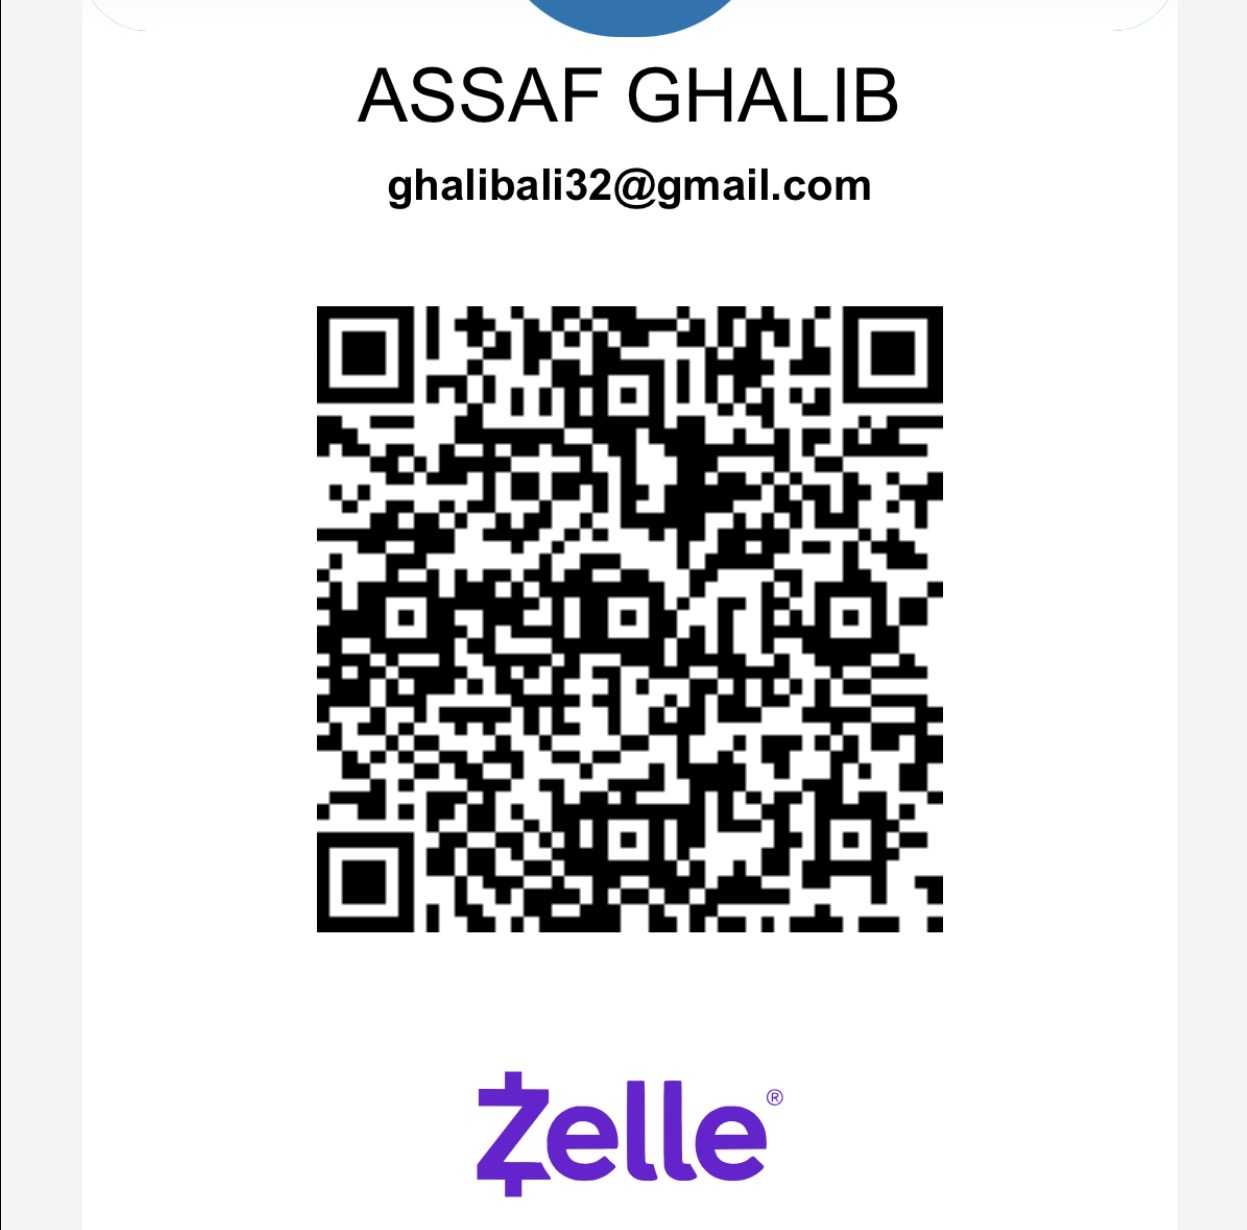
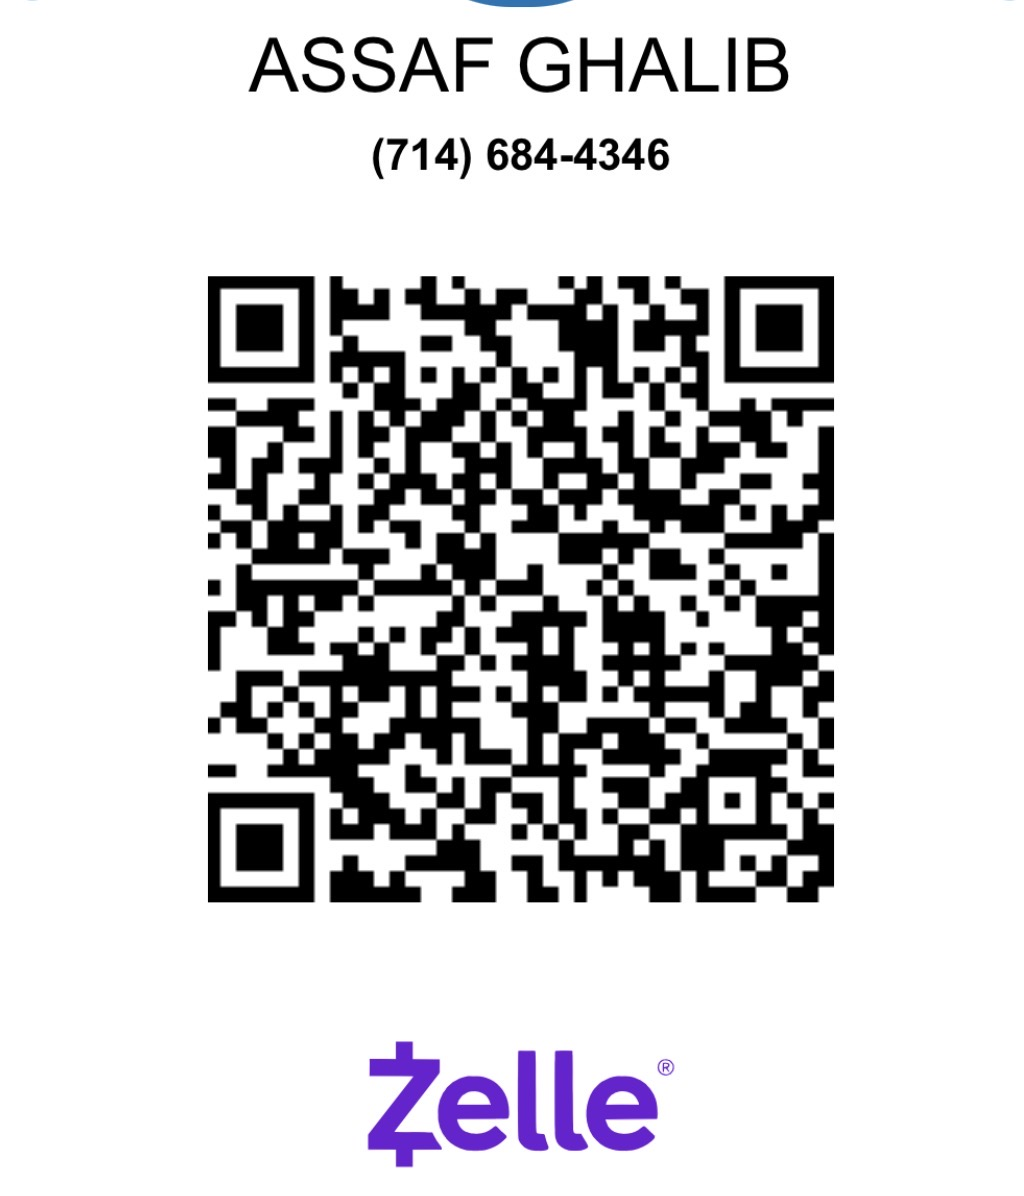
Changes

Changed region(s): [[0.1875, 0.2166, 0.8125, 0.7734], [0.25, 0.0, 0.7812, 0.1856], [0.3438, 0.8662, 0.6562, 0.99]]

diff --git a/src/pages/InstantBanks.tsx b/src/pages/InstantBanks.tsx
@@ -28,7 +28,7 @@ const banksByCountry: Record<string, { name: string; flag: string; banks: BankAc
     banks: [
       { name: "CashApp", nameArabic: "كاش آب", tag: "$Galalive313", accountHolder: "Dobeee Soneee", qrImage: "/banks/cashapp-galalive313.jpeg" },
       { name: "CashApp", nameArabic: "كاش آب (حساب 2)", tag: "$cashalk1", accountHolder: "Gala live chat", qrImage: "/banks/cashapp-cashalk1.jpeg" },
-      { name: "Zelle", nameArabic: "زيل", email: "ghalibali32@gmail.com", accountHolder: "ASSAF GHALIB", qrImage: "/banks/zelle-assaf.jpeg" },
+      { name: "Zelle", nameArabic: "زيل", phoneNumber: "7146844346", qrImage: "/banks/zelle-assaf.jpeg" },
       { name: "Zelle", nameArabic: "زيل (حساب 2)", accountHolder: "Hamza Ghalib", qrImage: "/banks/zelle-hamza.jpeg" },
       { name: "Chime", nameArabic: "تشايم", qrImage: "/banks/chime-qr.png" },
       { name: "Apple Pay", nameArabic: "آبل باي", phoneNumber: "7146844346", qrImage: "/banks/applepay-qr.jpeg" },
